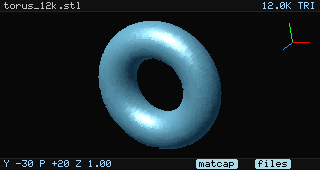
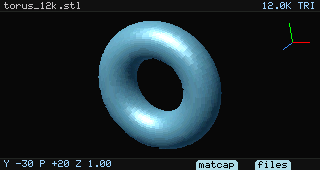
Turn the bottom buttons into tabs
- round the top corners and remove the bottom corners
- sit the tabs flush with the bottom of the bar
- refresh documentation screenshots

Changed region(s): [[0.5938, 0.9118, 0.75, 1.0], [0.7812, 0.9118, 0.9062, 1.0]]

diff --git a/src/ui.cpp b/src/ui.cpp
@@ -60,11 +60,30 @@ void fillRoundRect(Canvas& canvas, int x, int y, int w, int h, int radius,
     }
 }
 
-void drawLabelPill(Canvas& canvas, int center_x, int y, int height,
-                   const std::string& label) {
+void fillTab(Canvas& canvas, int x, int y, int w, int h, int radius,
+             uint16_t color) {
+    if (w <= 0 || h <= 0) return;
+    radius = std::max(0, std::min(radius, std::min(w / 2, h)));
+
+    for (int row = 0; row < h; ++row) {
+        int inset = 0;
+        if (row < radius) {
+            const float dy = radius - (row + 0.5f);
+            inset = radius - static_cast<int>(std::lround(
+                                 std::sqrt(radius * radius - dy * dy)));
+        }
+        const int row_width = w - 2 * inset;
+        if (row_width > 0) {
+            canvas.fillRect(x + inset, y + row, row_width, 1, color);
+        }
+    }
+}
+
+void drawLabelTab(Canvas& canvas, int center_x, int y, int height,
+                  const std::string& label) {
     const int width = canvas.textWidth(label) + 6;
     const int x = center_x - width / 2;
-    fillRoundRect(canvas, x, y, width, height, 2, Theme::kPillBackground);
+    fillTab(canvas, x, y, width, height, 4, Theme::kPillBackground);
     canvas.text(x + 3, y + (height - 8) / 2, label, Theme::kPillText);
 }
 
@@ -169,15 +188,15 @@ void drawUi(Canvas& canvas, const UiState& state) {
     canvas.text(kTextLeft, hint_y + kTextTop, view, Theme::kText);
 
     const int pill_h = 10;
-    const int pill_y = hint_y + (kHintHeight - pill_h) / 2;
+    const int pill_y = hint_y + 2;
 
-    // Render style button aligned with the "7" key (x=217).
+    // Render style tab aligned with the "7" key (x=217).
     const std::string style_label =
         state.wireframe ? "wire" : styleName(state.style);
-    drawLabelPill(canvas, 217, pill_y, pill_h, style_label);
+    drawLabelTab(canvas, 217, pill_y, pill_h, style_label);
 
-    // Files button aligned with the "8" key (x=273).
-    drawLabelPill(canvas, 273, pill_y, pill_h, "files");
+    // Files tab aligned with the "8" key (x=273).
+    drawLabelTab(canvas, 273, pill_y, pill_h, "files");
 
     // Transient toast (screenshot saved, etc.).
     if (!state.toast.empty()) {
